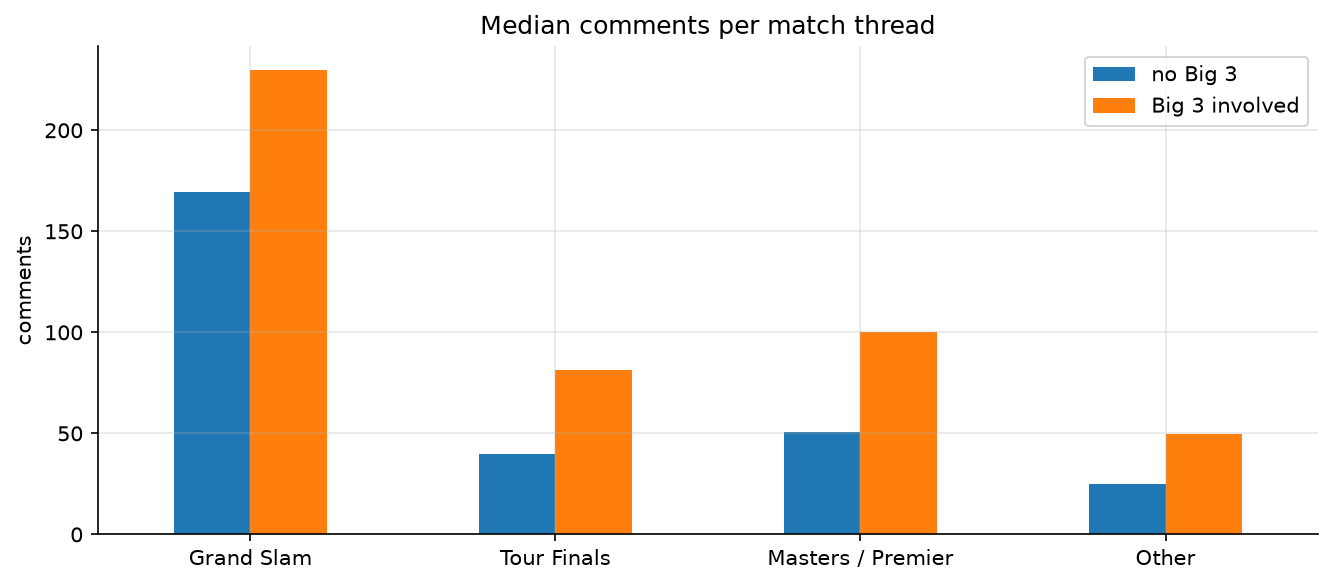
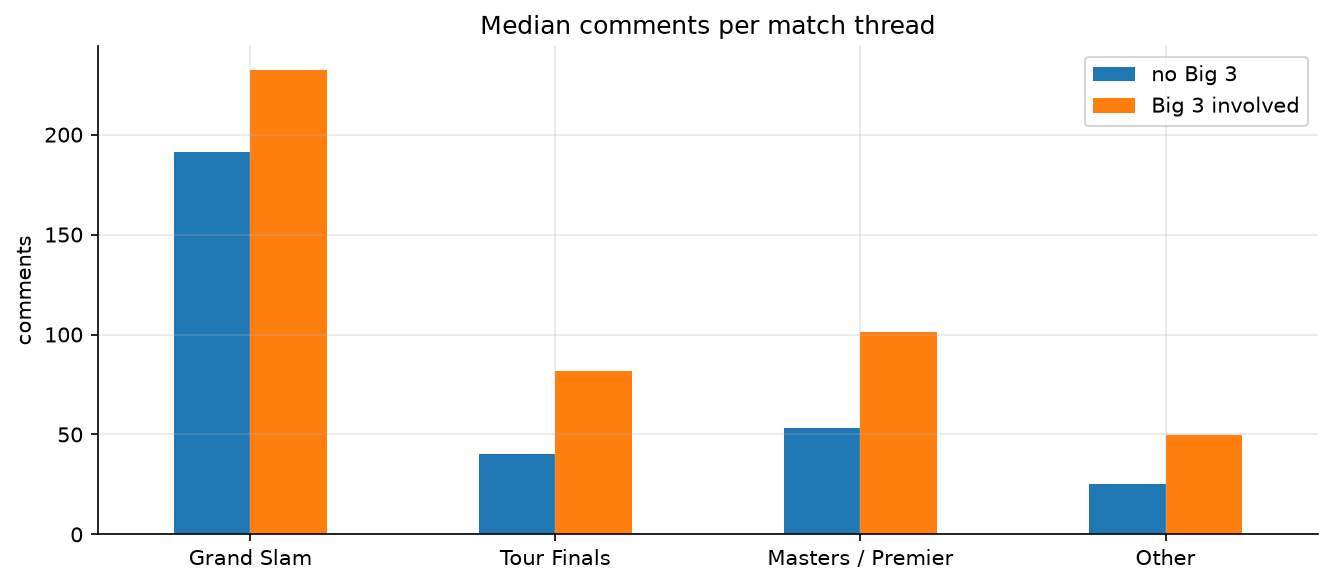
Render EDA with full results

diff --git a/docs/eda.html b/docs/eda.html
@@ -566,19 +566,26 @@ Table&nbsp;3: Thread types, median comments, and share linked to a match.
 <td>match</td>
 <td>746</td>
 <td>90</td>
-<td>668</td>
-<td>90%</td>
+<td>683</td>
+<td>92%</td>
 </tr>
 <tr class="even">
 <td>post-match</td>
 <td>530</td>
 <td>4</td>
-<td>336</td>
-<td>63%</td>
+<td>347</td>
+<td>65%</td>
 </tr>
 <tr class="odd">
+<td>result</td>
+<td>11,985</td>
+<td>1</td>
+<td>7,736</td>
+<td>65%</td>
+</tr>
+<tr class="even">
 <td>other</td>
-<td>93,349</td>
+<td>81,364</td>
 <td>3</td>
 <td></td>
 <td></td>
@@ -590,7 +597,7 @@ Table&nbsp;3: Thread types, median comments, and share linked to a match.
 </figure>
 </div>
 </div>
-<p>89.5% of match threads link to a match, so the fallback in the proposal (linking by player and date only) is not needed. But there are only 746 match threads, against 93,349 other threads. Many matches are discussed in result posts instead; these are linked in the next run.</p>
+<p>91.6% of match threads link to a match, so the fallback in the proposal (linking by player and date only) is not needed. But there are only 746 match threads, against 81,364 other threads. Result posts add 7,736 linked threads (64.5% of result-like titles link to a match), which multiplies the number of matches available for the attention model. Because these titles are less standardised than match threads, a random sample of 100 linked result posts is checked by hand for link precision.</p>
 <section id="first-look-what-gets-attention" class="level3">
 <h3 class="anchored" data-anchor-id="first-look-what-gets-attention">First look: what gets attention?</h3>
 <p>These are medians over linked match threads, before any modelling.</p>
@@ -626,16 +633,16 @@ Table&nbsp;4: Comments per linked match thread.
 <tr class="odd">
 <td>Event level</td>
 <td>Grand Slam</td>
-<td>366</td>
-<td>195</td>
-<td>680</td>
+<td>378</td>
+<td>205.5</td>
+<td>700</td>
 </tr>
 <tr class="even">
 <td>Event level</td>
 <td>Masters / Premier</td>
-<td>161</td>
+<td>164</td>
 <td>76</td>
-<td>229</td>
+<td>231</td>
 </tr>
 <tr class="odd">
 <td>Event level</td>
@@ -654,44 +661,44 @@ Table&nbsp;4: Comments per linked match thread.
 <tr class="odd">
 <td>Big 3 involved</td>
 <td>No</td>
-<td>309</td>
-<td>93</td>
-<td>316</td>
+<td>321</td>
+<td>98</td>
+<td>323</td>
 </tr>
 <tr class="even">
 <td>Big 3 involved</td>
 <td>Yes</td>
-<td>359</td>
-<td>120</td>
-<td>577</td>
+<td>362</td>
+<td>121.5</td>
+<td>601</td>
 </tr>
 <tr class="odd">
 <td>Upset (lower-ranked player won)</td>
 <td>No</td>
-<td>458</td>
-<td>89.5</td>
-<td>388</td>
+<td>469</td>
+<td>93</td>
+<td>404</td>
 </tr>
 <tr class="even">
 <td>Upset (lower-ranked player won)</td>
 <td>Yes</td>
-<td>210</td>
-<td>157</td>
-<td>605</td>
+<td>214</td>
+<td>162</td>
+<td>617</td>
 </tr>
 <tr class="odd">
 <td>Tour</td>
 <td>ATP</td>
-<td>516</td>
-<td>97.5</td>
-<td>507</td>
+<td>523</td>
+<td>98</td>
+<td>526</td>
 </tr>
 <tr class="even">
 <td>Tour</td>
 <td>WTA</td>
-<td>152</td>
-<td>126</td>
-<td>282</td>
+<td>160</td>
+<td>133</td>
+<td>290</td>
 </tr>
 </tbody>
 </table>
